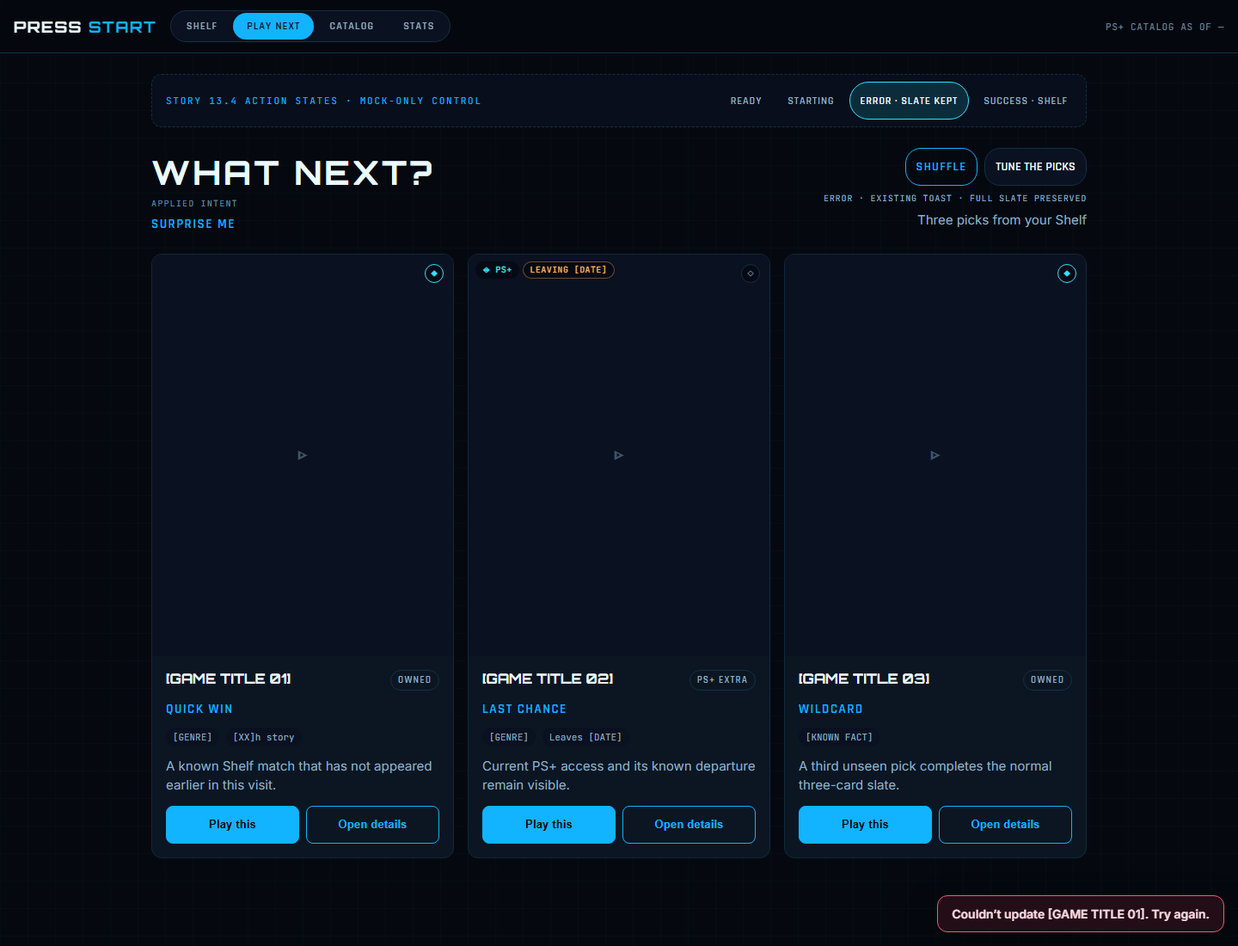
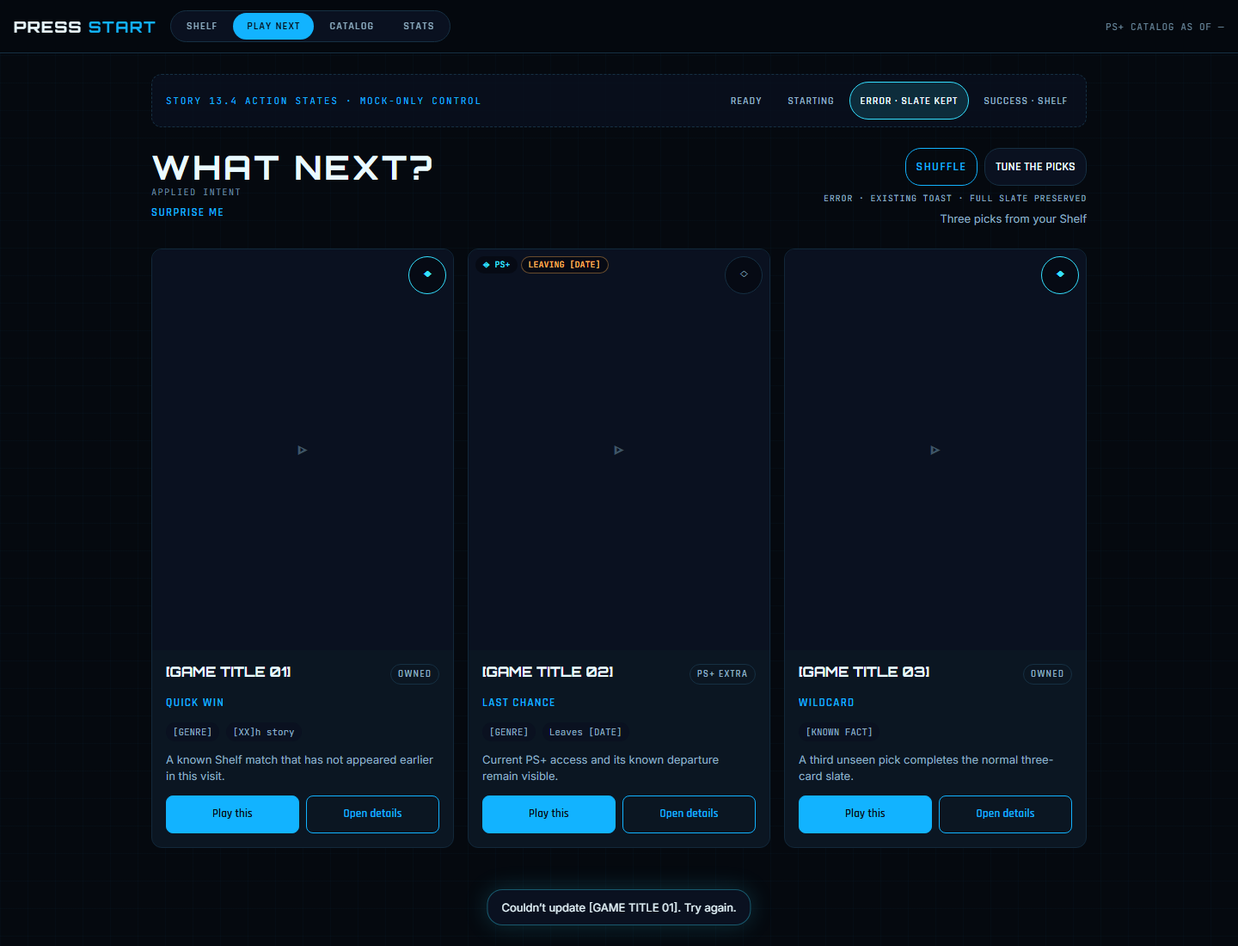
docs(design): approve story 13.4 action mock

diff --git a/_bmad-output/design-demos/epic-13-play-next/07-story-13-4-action-hardening.html b/_bmad-output/design-demos/epic-13-play-next/07-story-13-4-action-hardening.html
@@ -12,11 +12,12 @@ ASSUMPTIONS / ITERATION SOURCE
 - Failure uses the existing global error toast and preserves the complete Play Next slate.
 - Success uses the existing Shelf card/state language; selected Playing card receives route-arrival focus.
 - State switcher and captions are mock-only review chrome, never production UI.
-Alignment pass 2026-08-03: values re-copied from the shipped app + binding 05 mock —
-web/tokens.css (tokens, glow-ring), web/index.css (focus floor), web/shell/header.css,
-web/shelf/card.css via 05 (22px owned badge, rounded cover, flag offsets),
-web/play-next/play-next.css (page header, card content, tune modal). Font paths fixed:
-static @fontsource Orbitron/Rajdhani (the variable packages are not installed).
+Alignment pass 2026-08-03 (2): re-matched to the SHIPPED app, not the earlier mock series —
+web/index.css (13px body, button font-ui, focus floor), web/tokens.css,
+web/play-next/play-next.css + SuggestionCard.tsx (44px owned toggle at space-2, flag offsets,
+reason/mode inherit body size), web/components/toast.css (bottom-center cyan toast, z-toast),
+web/shelf/card.css + state-pill.css (success view: vertical card, card--playing magenta bloom,
+compact PLAYING pill, 22px shelf owned chip). Shelf filter row / header search elided as mock chrome.
 -->
 <style>
 @font-face{font-family:Orbitron;src:url('../../../node_modules/@fontsource/orbitron/files/orbitron-latin-700-normal.woff2')}
@@ -28,18 +29,20 @@ static @fontsource Orbitron/Rajdhani (the variable packages are not installed).
 	--color-border-hairline:#163043;--color-border-soft:#12283a;
 	--color-text-primary:#eafaff;--color-text-secondary:#8fb0c4;--color-text-muted:#6b8ba0;
 	--color-accent-electric:#12b3ff;--color-accent-glow:#35e0ff;
+	--color-heat-magenta:#ff2e88;--color-heat-magenta-ink:#ff8bc2;
 	--color-state-dormant:#3d5566;--color-warn-amber:#ffb254;
-	--space-1:4px;--space-2:8px;--space-3:12px;--space-4:16px;--space-5:24px;
+	--space-1:4px;--space-2:8px;--space-3:12px;--space-4:16px;--space-5:24px;--space-6:32px;
 	--radius-sm:8px;--radius-md:12px;--radius-lg:18px;--radius-pill:999px;
 	--font-display:"Orbitron",system-ui,sans-serif;--font-ui:"Rajdhani",system-ui,sans-serif;
 	--font-body:"Inter",system-ui,sans-serif;--font-mono:"JetBrains",ui-monospace,monospace;
-	--glow-ring:0 0 28px rgba(53,224,255,.18);
-	--hit-target:44px;--z-header:10;--z-overlay:40;
+	--glow-ring:0 0 28px rgba(53,224,255,.18);--glow-playing:0 0 26px rgba(255,46,136,.3);
+	--hit-target:44px;--z-header:10;--z-overlay:40;--z-toast:50;
 }
 :focus-visible{outline:2px solid var(--color-accent-electric);outline-offset:2px}
 *{box-sizing:border-box}
-body{margin:0;min-height:100vh;background:var(--color-void);color:var(--color-text-primary);font:15px/1.5 var(--font-body);background-image:linear-gradient(rgba(18,179,255,.025) 1px,transparent 1px),linear-gradient(90deg,rgba(18,179,255,.025) 1px,transparent 1px);background-size:32px 32px}
-button{cursor:pointer}
+body{margin:0;min-height:100vh;background:var(--color-void);color:var(--color-text-primary);font:400 13px/1.5 var(--font-body);background-image:linear-gradient(rgba(18,179,255,.025) 1px,transparent 1px),linear-gradient(90deg,rgba(18,179,255,.025) 1px,transparent 1px);background-size:32px 32px}
+h1,h2{margin:0;font-family:var(--font-display);font-weight:700;line-height:1.15}
+button{font-family:var(--font-ui);color:inherit;cursor:pointer}
 .app-header{position:sticky;top:0;z-index:var(--z-header);display:flex;flex-wrap:wrap;align-items:center;gap:var(--space-4);padding:var(--space-3) var(--space-4);background:rgba(5,9,15,.82);backdrop-filter:blur(8px);border-bottom:1px solid var(--color-border-hairline)}
 .wordmark{font:900 18px var(--font-display);letter-spacing:.08em}.wordmark b{color:var(--color-accent-electric)}
 .destination-toggle{display:flex;flex:0 0 auto;gap:2px;padding:2px;background:var(--color-surface-raised);border:1px solid var(--color-border-hairline);border-radius:var(--radius-pill)}
@@ -53,44 +56,57 @@ main{max-width:1120px;margin:auto;padding:var(--space-5) var(--space-4) 56px}
 .mock-state{min-height:var(--hit-target);padding:var(--space-2) var(--space-3);border:1px solid transparent;border-radius:var(--radius-pill);background:transparent;color:var(--color-text-secondary);font:700 12px var(--font-ui);letter-spacing:.08em}
 .mock-state[aria-pressed="true"]{border-color:var(--color-accent-glow);background:rgba(53,224,255,.14);color:var(--color-text-primary)}
 .play-next__header{display:flex;align-items:flex-start;justify-content:space-between;gap:var(--space-4);margin-bottom:var(--space-5)}
-.play-next__header h1{margin:0;font-family:var(--font-display);font-size:clamp(1.6rem,4vw,2.4rem);letter-spacing:.08em}
-.play-next__applied{display:block;color:var(--color-text-muted);font:10px var(--font-mono);letter-spacing:.12em}
-.play-next__mode{display:inline-flex;margin-top:var(--space-2);color:var(--color-accent-electric);font:700 15px var(--font-ui);letter-spacing:.1em}
+.play-next__header h1{font-size:clamp(1.6rem,4vw,2.4rem);letter-spacing:.08em}
+.play-next__applied{display:block;color:var(--color-text-muted);font:.65rem var(--font-mono);letter-spacing:.12em}
+.play-next__mode{display:inline-flex;margin-top:var(--space-2);color:var(--color-accent-electric);font-family:var(--font-ui);font-weight:700;letter-spacing:.1em}
 .play-next__controls{display:flex;max-width:520px;flex-direction:column;align-items:flex-end;gap:var(--space-2)}
 .play-next__controls p{margin:0;color:var(--color-text-secondary)}
 .command-row{display:flex;justify-content:flex-end;gap:var(--space-2)}
 .tune-trigger{display:inline-flex;align-items:center;gap:var(--space-2);min-height:var(--hit-target);padding:var(--space-2) var(--space-3);border:1px solid var(--color-border-hairline);border-radius:var(--radius-lg);background:var(--color-surface-raised);color:var(--color-text-primary);font:600 .9rem var(--font-ui)}
 .play-next__grid{display:grid;grid-template-columns:repeat(3,minmax(0,1fr));gap:var(--space-4)}
-.card{display:flex;flex-direction:column;min-width:0;background:var(--color-surface);border:1px solid var(--color-border-soft);border-radius:var(--radius-md)}
-.card[hidden]{display:none}
-.card__cover{position:relative;aspect-ratio:3/4;background:var(--color-surface-raised);border-radius:calc(var(--radius-md) - 1px) calc(var(--radius-md) - 1px) 0 0;overflow:hidden}
+.card{display:flex;flex-direction:column;min-width:0;background:var(--color-surface);border:1px solid var(--color-border-soft);border-radius:var(--radius-md);overflow:hidden}
+.card__cover{position:relative;aspect-ratio:3/4;background:var(--color-surface-raised)}
 .card__cover-button{display:block;width:100%;height:100%;padding:0;border:0;background:none}
 .card__cover-fallback{display:grid;place-items:center;width:100%;height:100%;color:var(--color-state-dormant);font:700 2rem var(--font-display)}
-.card__owned-toggle{position:absolute;top:calc((var(--hit-target) - 22px)/2);right:calc((var(--hit-target) - 22px)/2);z-index:1;display:grid;place-items:center;width:22px;height:22px;padding:0;line-height:1;border:1px solid var(--color-border-hairline);border-radius:var(--radius-pill);background:rgba(5,9,15,.72);color:var(--color-text-muted);font-size:11px;backdrop-filter:blur(2px)}
+.card__owned-toggle{position:absolute;top:var(--space-2);right:var(--space-2);z-index:1;display:grid;place-items:center;width:var(--hit-target);height:var(--hit-target);padding:0;border:1px solid var(--color-border-hairline);border-radius:var(--radius-pill);background:rgba(5,9,15,.72);color:var(--color-text-muted)}
 .card__owned-toggle[aria-pressed="true"]{border-color:var(--color-accent-glow);color:var(--color-accent-glow)}
-.card__flags{position:absolute;top:var(--space-2);left:var(--space-2);right:calc((var(--hit-target) - 22px)/2 + 22px + var(--space-1));display:flex;flex-wrap:wrap;gap:var(--space-1);pointer-events:none}
-.card__flag{display:inline-flex;align-items:center;padding:2px var(--space-2);border-radius:var(--radius-pill);background:rgba(5,9,15,.72);color:var(--color-text-primary);font:10px/1.4 var(--font-mono);backdrop-filter:blur(2px)}
-.card__flag--ps-extra{color:var(--color-accent-glow);font-weight:600;letter-spacing:.04em}.card__flag--leaving{flex-basis:100%;max-width:fit-content;border:1px solid rgba(255,178,84,.4);color:var(--color-warn-amber);font-weight:600;letter-spacing:.04em}
+.card__flags{position:absolute;top:var(--space-2);left:var(--space-2);right:calc(var(--hit-target) + var(--space-3));display:flex;flex-wrap:wrap;gap:var(--space-1);pointer-events:none}
+.card__flag{display:inline-flex;align-items:center;padding:2px var(--space-2);border-radius:var(--radius-pill);background:rgba(5,9,15,.72);color:var(--color-text-primary);font:.625rem/1.4 var(--font-mono)}
+.card__flag--ps-extra{color:var(--color-accent-glow);font-weight:600}.card__flag--leaving{flex-basis:100%;max-width:fit-content;border:1px solid rgba(255,178,84,.4);color:var(--color-warn-amber);font-weight:600}
 .card__content{display:flex;flex:1;flex-direction:column;gap:var(--space-3);padding:var(--space-4)}
 .card__title-row{display:flex;align-items:flex-start;justify-content:space-between;gap:var(--space-3)}
-.card__title-row h2{min-width:0;margin:0;overflow:hidden;font:600 1rem var(--font-display);text-overflow:ellipsis;white-space:nowrap}
+.card__title-row h2{min-width:0;overflow:hidden;font-size:1rem;text-overflow:ellipsis;white-space:nowrap}
 .card__access{flex:none;padding:var(--space-1) var(--space-2);border:1px solid var(--color-border-hairline);border-radius:var(--radius-pill);color:var(--color-text-secondary);font:700 .7rem var(--font-ui);letter-spacing:.1em}
-.card__reason{margin:0;color:var(--color-accent-electric);font:700 15px var(--font-ui);letter-spacing:.1em}
+.card__reason{display:inline-flex;margin:0;color:var(--color-accent-electric);font-family:var(--font-ui);font-weight:700;letter-spacing:.1em}
 .card__facts{display:flex;flex-wrap:wrap;gap:var(--space-2);margin:0;padding:0;list-style:none}.card__facts li{padding:var(--space-1) var(--space-2);border-radius:var(--radius-pill);background:var(--color-surface-raised);color:var(--color-text-secondary);font:.68rem var(--font-mono)}
 .card__explanation{margin:0;color:var(--color-text-secondary)}
 .card__actions{display:grid;grid-template-columns:1fr 1fr;gap:var(--space-2);margin-top:auto}.card__actions button{min-height:var(--hit-target);padding:var(--space-2);border:1px solid var(--color-accent-electric);border-radius:var(--radius-sm);background:transparent;color:var(--color-accent-electric);font-weight:700}.card__actions button:first-child{background:var(--color-accent-electric);color:var(--color-void)}
-.card__actions button:disabled{cursor:wait;opacity:.62}.card[aria-busy="true"]{border-color:var(--color-accent-electric);box-shadow:var(--glow-ring)}
-.toast{position:fixed;right:var(--space-4);bottom:var(--space-4);z-index:30;max-width:min(420px,calc(100vw - 24px));padding:var(--space-3) var(--space-4);border:1px solid #ff5577;border-radius:var(--radius-md);background:#230d17;color:#ffdbe4;font:600 14px var(--font-body);box-shadow:0 12px 36px rgba(0,0,0,.4)}.toast[hidden]{display:none}
-.shelf-success[hidden]{display:none}.shelf-success__head{display:flex;align-items:end;justify-content:space-between;gap:var(--space-4);margin-bottom:var(--space-5)}.shelf-success h1{margin:0;font:700 clamp(1.6rem,4vw,2.4rem) var(--font-display);letter-spacing:.08em}.shelf-success__filters{display:flex;gap:var(--space-2)}.shelf-success__filters button{min-height:var(--hit-target);padding:var(--space-2) var(--space-3);border:1px solid var(--color-border-hairline);border-radius:var(--radius-pill);background:var(--color-surface-raised);color:var(--color-text-secondary);font:700 13px var(--font-ui)}.shelf-card{display:grid;grid-template-columns:96px minmax(0,1fr);max-width:560px;min-height:144px;border:1px solid var(--color-accent-electric);border-radius:var(--radius-md);background:var(--color-surface);box-shadow:var(--glow-ring);outline:2px solid var(--color-accent-electric);outline-offset:3px}.shelf-card__cover{display:grid;place-items:center;background:var(--color-surface-raised);color:var(--color-state-dormant);font:700 2rem var(--font-display)}.shelf-card__body{padding:var(--space-4)}.shelf-card__body h2{margin:0 0 var(--space-2);font:600 1rem var(--font-display)}.status-pill{display:inline-flex;min-height:var(--hit-target);align-items:center;padding:var(--space-2) var(--space-3);border:1px solid #ff3ea5;border-radius:var(--radius-pill);background:rgba(255,62,165,.12);color:#ff71bc;font:700 13px var(--font-ui);letter-spacing:.08em}
-.shuffle-warning{max-width:520px;margin:0;padding:var(--space-2) var(--space-3);border:1px solid rgba(255,178,84,.4);border-radius:var(--radius-md);background:rgba(255,178,84,.06);color:var(--color-warn-amber);font:600 14px var(--font-ui);text-align:right}
+.card__actions button:disabled{cursor:wait;opacity:.55}.card[aria-busy="true"]{border-color:var(--color-accent-electric);box-shadow:var(--glow-ring)}
+.toast{position:fixed;left:50%;bottom:calc(var(--space-5) + env(safe-area-inset-bottom,0px));transform:translateX(-50%);z-index:var(--z-toast);display:flex;align-items:center;gap:var(--space-3);max-width:calc(100vw - var(--space-6));padding:var(--space-3) var(--space-4);background:var(--color-surface-raised);border:1px solid rgba(53,224,255,.35);border-radius:var(--radius-lg);box-shadow:var(--glow-ring);color:var(--color-text-primary);font:400 13px var(--font-body)}.toast[hidden]{display:none}
+.shelf-success[hidden]{display:none}
+.shelf-grid{display:grid;grid-template-columns:repeat(auto-fill,minmax(150px,1fr));gap:var(--space-4);margin-top:var(--space-3)}
+.shelf-card{display:flex;flex-direction:column;background:var(--color-surface);border:1px solid var(--color-border-soft);border-radius:var(--radius-md)}
+.shelf-card--playing{border-color:var(--color-heat-magenta);box-shadow:var(--glow-playing)}
+.shelf-card--playing:focus{outline:2px solid var(--color-accent-electric);outline-offset:2px}
+.shelf-card__cover{position:relative;display:grid;place-items:center;aspect-ratio:3/4;background:var(--color-surface-raised);border-radius:calc(var(--radius-md) - 1px) calc(var(--radius-md) - 1px) 0 0;overflow:hidden;color:var(--color-state-dormant);font:700 2rem var(--font-display)}
+.shelf-card__owned{position:absolute;top:calc((var(--hit-target) - 22px)/2);right:calc((var(--hit-target) - 22px)/2);display:grid;place-items:center;width:22px;height:22px;padding:0;line-height:1;border:1px solid var(--color-border-hairline);border-radius:var(--radius-pill);background:rgba(5,9,15,.72);color:var(--color-text-muted);font-size:11px;backdrop-filter:blur(2px)}
+.shelf-card__owned[aria-pressed="true"]{border-color:var(--color-accent-glow);color:var(--color-accent-glow)}
+.shelf-card__info{display:flex;flex-direction:column;gap:var(--space-1);min-height:132px;padding:var(--space-2) var(--space-3) var(--space-3)}
+.shelf-card__title{margin:0;font:600 12.5px var(--font-display);overflow:hidden;text-overflow:ellipsis;white-space:nowrap}
+.state-pill{display:inline-flex;align-items:center;align-self:flex-start;padding:2px var(--space-2);border-radius:var(--radius-pill);font:600 10px var(--font-display);letter-spacing:.04em;text-transform:uppercase;white-space:nowrap}
+.state-pill--playing{background:rgba(255,46,136,.16);color:var(--color-heat-magenta-ink)}
+.state-pill--not-started{background:rgba(61,85,102,.28);color:var(--color-text-secondary)}
+.shelf-card__chip{align-self:flex-start;padding:1px var(--space-2);border:1px solid var(--color-border-hairline);border-radius:var(--radius-pill);color:var(--color-text-muted);font:9px var(--font-mono);letter-spacing:.06em}
+.shuffle-warning{max-width:520px;margin:0;padding:var(--space-2) var(--space-3);border:1px solid rgba(255,178,84,.4);border-radius:var(--radius-md);background:rgba(255,178,84,.06);color:var(--color-warn-amber);font:600 .875rem var(--font-ui);text-align:right}
 .shuffle-warning[hidden]{display:none}
 .shuffle-button{display:inline-flex;align-items:center;justify-content:center;min-height:var(--hit-target);padding:var(--space-2) var(--space-3);border:1px solid var(--color-accent-electric);border-radius:var(--radius-lg);background:transparent;color:var(--color-accent-electric);font:700 .9rem var(--font-ui);letter-spacing:.08em}
 .shuffle-button:hover,.shuffle-button:focus-visible{background:rgba(18,179,255,.12)}
 .state-caption{margin:0;color:var(--color-text-muted);font:10px var(--font-mono);letter-spacing:.08em;text-align:right}
+.shelf-success .state-caption{margin-bottom:var(--space-2);text-align:left}
 .tune__backdrop{position:fixed;inset:0;z-index:var(--z-overlay);display:flex;align-items:center;justify-content:center;padding:var(--space-5);background:rgba(5,9,15,.7)}.tune__backdrop[hidden]{display:none}
 .tune{width:min(680px,100%);max-height:80vh;overflow-y:auto;padding:var(--space-4);border:1px solid var(--color-border-hairline);border-radius:var(--radius-lg);background:var(--color-surface-raised);box-shadow:var(--glow-ring)}
-.tune__head{display:flex;align-items:flex-start;justify-content:space-between;gap:var(--space-4)}.tune__title{margin:0 0 var(--space-3);font:600 .9rem var(--font-display);letter-spacing:.08em;text-transform:uppercase}.tune__close{display:grid;place-items:center;width:var(--hit-target);height:var(--hit-target);padding:0;border:1px solid var(--color-border-hairline);border-radius:var(--radius-pill);background:transparent;color:var(--color-text-primary);font:20px/1 var(--font-ui)}
-.tune__draft{margin:0 0 var(--space-4);padding:var(--space-2) var(--space-3);border-left:2px solid var(--color-warn-amber);background:rgba(255,178,84,.06);color:var(--color-text-secondary);font-size:13px}.tune__draft strong{color:var(--color-warn-amber)}
+.tune__head{display:flex;align-items:flex-start;justify-content:space-between;gap:var(--space-4)}.tune__title{margin:0 0 var(--space-3);font:600 .9rem var(--font-display);letter-spacing:.08em;text-transform:uppercase}.tune__close{display:grid;place-items:center;width:var(--hit-target);height:var(--hit-target);padding:0;border:1px solid var(--color-border-hairline);border-radius:var(--radius-pill);background:transparent;color:var(--color-text-primary);font:1.25rem var(--font-ui)}
+.tune__draft{margin:0 0 var(--space-4);padding:var(--space-2) var(--space-3);border-left:2px solid var(--color-warn-amber);background:rgba(255,178,84,.06);color:var(--color-text-secondary);font-size:.8125rem}.tune__draft strong{color:var(--color-warn-amber)}
 .tune__groups{display:grid;grid-template-columns:1fr 1fr;gap:0 var(--space-4)}.tune__group{display:flex;flex-wrap:wrap;gap:var(--space-2);min-inline-size:0;margin:0 0 var(--space-4);padding:0;border:0}.tune__group legend{margin-bottom:var(--space-1);padding:0;color:var(--color-text-secondary);font:.8rem var(--font-ui)}
 .tune__option{min-height:var(--hit-target);padding:var(--space-2) var(--space-3);border:1px solid var(--color-border-hairline);border-radius:var(--radius-pill);background:none;color:var(--color-text-primary);font:.9rem var(--font-ui)}.tune__option[aria-pressed="true"]{border-color:var(--color-accent-glow);background:rgba(53,224,255,.18)}
 .tune__wishlist{display:flex;align-items:center;gap:var(--space-2);min-height:var(--hit-target);margin-bottom:var(--space-3);font:.9rem var(--font-ui)}.tune__wishlist input{width:20px;height:20px;accent-color:var(--color-accent-electric)}.tune__wishlist small{color:var(--color-text-secondary)}
@@ -99,8 +115,8 @@ main{max-width:1120px;margin:auto;padding:var(--space-5) var(--space-4) 56px}
 	.app-header{gap:var(--space-2);padding:var(--space-3);background:var(--color-void);backdrop-filter:none}.destination-toggle{order:3;flex:1 0 100%}.destination-toggle__tab{flex:1;padding-inline:var(--space-1)}.app-header__readout{font-size:10px}
 	main{padding:var(--space-4) var(--space-3) 48px}.mock-bar{align-items:flex-start;flex-direction:column}.mock-bar__label{margin-top:var(--space-2)}.mock-bar__states{width:100%}.mock-state{flex:1;padding-inline:var(--space-2);font-size:10px}
 	.play-next__header{flex-direction:column}.play-next__controls{width:100%;max-width:none;align-items:flex-start}.command-row{width:100%}.command-row button{flex:1}.shuffle-warning{width:100%;max-width:none;text-align:left}.state-caption{text-align:left}.play-next__grid{grid-template-columns:repeat(2,minmax(0,1fr));gap:var(--space-2)}
-	.card__content{padding:var(--space-2) var(--space-3) var(--space-3)}.card__title-row{flex-direction:column;gap:var(--space-1)}.card__title-row h2{font-size:12.5px}.card__actions{grid-template-columns:1fr}
-	.toast{right:var(--space-3);bottom:var(--space-3)}.shelf-success__head{align-items:flex-start;flex-direction:column}.shelf-card{grid-template-columns:78px minmax(0,1fr);width:100%}
+	.card__content{padding:var(--space-2) var(--space-3) var(--space-3)}.card__title-row{flex-direction:column;gap:var(--space-1)}.card__title-row h2{font-size:.78rem}.card__actions{grid-template-columns:1fr}
+	.shelf-grid{grid-template-columns:repeat(2,minmax(0,1fr));gap:var(--space-3)}.shelf-card__info{min-height:112px}
 	.tune__backdrop{align-items:flex-end;padding:0}.tune{width:100%;max-height:80vh;padding-bottom:calc(var(--space-4) + env(safe-area-inset-bottom,0px));border:0;border-top:1px solid var(--color-border-hairline);border-radius:var(--radius-lg) var(--radius-lg) 0 0;box-shadow:none}.tune__groups{grid-template-columns:1fr}
 }
 @media(prefers-reduced-motion:reduce){*{scroll-behavior:auto!important;transition-duration:.001ms!important}}
@@ -140,12 +156,19 @@ main{max-width:1120px;margin:auto;padding:var(--space-5) var(--space-4) 56px}
 			<article class="card" data-card="3"><div class="card__cover"><button class="card__cover-button" type="button" aria-label="Open details — Game title 03"><span class="card__cover-fallback" aria-hidden="true">▹</span></button><button class="card__owned-toggle" type="button" aria-pressed="true" aria-label="Owned — Game title 03"><span aria-hidden="true">◆</span></button><div class="card__flags"></div></div><div class="card__content"><div class="card__title-row"><h2>[GAME TITLE 03]</h2><span class="card__access">OWNED</span></div><p class="card__reason">WILDCARD</p><ul class="card__facts"><li>[KNOWN FACT]</li></ul><p class="card__explanation">A third unseen pick completes the normal three-card slate.</p><div class="card__actions"><button type="button">Play this</button><button type="button">Open details</button></div></div></article>
 		</div>
 	</section>
-	<section class="shelf-success" data-shelf-view hidden aria-labelledby="shelf-heading"><div class="shelf-success__head"><div><span class="play-next__applied">DESTINATION</span><h1 id="shelf-heading">SHELF</h1></div><div class="shelf-success__filters"><button type="button">FILTERS</button><button type="button">SEARCH</button></div></div><article class="shelf-card" tabindex="-1" aria-label="[GAME TITLE 01] — Playing"><div class="shelf-card__cover">▹</div><div class="shelf-card__body"><span class="play-next__applied">PLAYING TIER · ARRIVAL FOCUS</span><h2>[GAME TITLE 01]</h2><button class="status-pill" type="button">PLAYING</button></div></article></section>
+	<section class="shelf-success" data-shelf-view hidden aria-label="Shelf after Play this">
+		<p class="state-caption">DESTINATION · SHELF — FILTER ROW + HEADER SEARCH ELIDED (MOCK CHROME)</p>
+		<div class="shelf-grid">
+			<article class="shelf-card shelf-card--playing" tabindex="-1" aria-label="[GAME TITLE 01] — Playing"><div class="shelf-card__cover"><span aria-hidden="true">▹</span><button class="shelf-card__owned" type="button" aria-pressed="true" aria-label="Owned — Game title 01"><span aria-hidden="true">◆</span></button></div><div class="shelf-card__info"><p class="shelf-card__title">[GAME TITLE 01]</p><span class="state-pill state-pill--playing">Playing</span><p class="shelf-card__chip">OWNED</p></div></article>
+			<article class="shelf-card" aria-label="[GAME TITLE 04] — Not started"><div class="shelf-card__cover"><span aria-hidden="true">▹</span><button class="shelf-card__owned" type="button" aria-pressed="true" aria-label="Owned — Game title 04"><span aria-hidden="true">◆</span></button></div><div class="shelf-card__info"><p class="shelf-card__title">[GAME TITLE 04]</p><span class="state-pill state-pill--not-started">Not started</span><p class="shelf-card__chip">OWNED</p></div></article>
+			<article class="shelf-card" aria-label="[GAME TITLE 05] — Not started"><div class="shelf-card__cover"><span aria-hidden="true">▹</span><button class="shelf-card__owned" type="button" aria-pressed="false" aria-label="Owned — Game title 05"><span aria-hidden="true">◇</span></button></div><div class="shelf-card__info"><p class="shelf-card__title">[GAME TITLE 05]</p><span class="state-pill state-pill--not-started">Not started</span></div></article>
+		</div>
+	</section>
 </main>
 <div class="toast" role="alert" data-error-toast hidden>Couldn’t update [GAME TITLE 01]. Try again.</div>
 <div class="tune__backdrop" data-backdrop hidden><section class="tune" role="dialog" aria-modal="true" aria-labelledby="tune-title" tabindex="-1"><div class="tune__head"><h2 class="tune__title" id="tune-title">Tune the picks</h2><button class="tune__close" type="button" aria-label="Close Tune the picks">×</button></div><p class="tune__draft">Draft only — current picks stay put until <strong>SHOW ME 3</strong>.</p><div class="tune__groups"><fieldset class="tune__group"><legend>Genre — one or none</legend><button class="tune__option" type="button" aria-pressed="false">Familiar</button><button class="tune__option" type="button" aria-pressed="false">Different</button></fieldset><fieldset class="tune__group"><legend>Time — one or none</legend><button class="tune__option" type="button" aria-pressed="false">Quick win</button></fieldset><fieldset class="tune__group"><legend>Backlog age — one or none</legend><button class="tune__option" type="button" aria-pressed="false">Fresh</button><button class="tune__option" type="button" aria-pressed="false">Forgotten</button></fieldset><fieldset class="tune__group"><legend>Confidence — one or none</legend><button class="tune__option" type="button" aria-pressed="false">Safe bet</button><button class="tune__option" type="button" aria-pressed="false">Wildcard</button></fieldset><fieldset class="tune__group"><legend>Priority — one or none</legend><button class="tune__option" type="button" aria-pressed="false">Follow my list</button><button class="tune__option" type="button" aria-pressed="false">Last chance</button></fieldset><fieldset class="tune__group"><legend>Progress — one or none</legend><button class="tune__option" type="button" aria-pressed="false">Finish them</button></fieldset></div><label class="tune__wishlist"><input type="checkbox"> Include wishlist <small>DISCOVER access</small></label><button class="tune__show" type="button">SHOW ME 3</button></section></div>
 <script>
-const caption=document.querySelector('.state-caption');
+const caption=document.querySelector('[data-play-next-view] .state-caption');
 const stateButtons=[...document.querySelectorAll('[data-next-state]')];
 const playView=document.querySelector('[data-play-next-view]');
 const shelfView=document.querySelector('[data-shelf-view]');
@@ -169,7 +192,7 @@ function setState(state){
 	shelfView.hidden=!success;
 	if(success){shelfTab.setAttribute('aria-current','page');playTab.removeAttribute('aria-current')}else{playTab.setAttribute('aria-current','page');shelfTab.removeAttribute('aria-current')}
 	caption.textContent=state==='ready'?'READY · ALL CARD ACTIONS AVAILABLE':state==='starting'?'STARTING · ACTIVATED CARD ACTIONS LOCKED':state==='error'?'ERROR · EXISTING TOAST · FULL SLATE PRESERVED':'SUCCESS · PLAYING CARD FOCUSED ON SHELF';
-	if(success) shelfView.querySelector('.shelf-card').focus();
+	if(success) shelfView.querySelector('.shelf-card--playing').focus();
 	location.hash=state;
 }
 stateButtons.forEach(button=>button.addEventListener('click',()=>setState(button.dataset.nextState)));

diff --git a/_bmad-output/implementation-artifacts/spec-13-4-act-on-a-recommendation-and-harden-the-flow.md b/_bmad-output/implementation-artifacts/spec-13-4-act-on-a-recommendation-and-harden-the-flow.md
@@ -2,7 +2,7 @@
 title: 'Story 13.4: Act on a recommendation and harden the flow'
 type: 'feature'
 created: '2026-08-03'
-status: 'blocked'
+status: 'ready-for-dev'
 review_loop_iteration: 0
 followup_review_recommended: false
 context:
@@ -55,7 +55,7 @@ warnings: [oversized]
 ## Tasks & Acceptance
 
 **Execution:**
-- [ ] `_bmad-output/design-demos/epic-13-play-next/07-story-13-4-action-hardening.html` -- present ready, pending, failure-preserved, success-Shelf, desktop, and 320px states; record Luca approval.
+- [x] `_bmad-output/design-demos/epic-13-play-next/07-story-13-4-action-hardening.html` -- present ready, pending, failure-preserved, success-Shelf, desktop, and 320px states; record Luca approval.
 - [ ] `web/play-next/SuggestionCard.tsx`, `web/play-next/play-next.css` -- implement approved pending/action treatment without changing card hierarchy.
 - [ ] `web/play-next/PlayNextPage.tsx`, `web/shelf/Shelf.tsx` -- pass successful selection context through navigation and focus the settled Playing Shelf card without stealing focus on ordinary Shelf visits.
 - [ ] `web/play-next/PlayNextPage.test.tsx` -- pin single-write pending behavior, success navigation/focus intent, failure restoration, and full visit preservation.
@@ -83,7 +83,7 @@ Pending is local to the activated suggestion and uses existing visual language: 
 
 Successful navigation carries only the selected game ID as ephemeral route state. Shelf consumes it once after the invalidated query settles, focuses the matching Playing card/gridcell, and clears the intent. Normal Shelf navigation must never auto-focus a card.
 
-Placement mock: `_bmad-output/design-demos/epic-13-play-next/07-story-13-4-action-hardening.html`. Approval pending.
+Placement mock: `_bmad-output/design-demos/epic-13-play-next/07-story-13-4-action-hardening.html`. Luca applied final shipped-app alignment edits and approved the resulting UI on 2026-08-03; those edits are binding.
 
 ## Verification
 
@@ -96,6 +96,6 @@ Placement mock: `_bmad-output/design-demos/epic-13-play-next/07-story-13-4-actio
 
 ## Auto Run Result
 
-Status: blocked.
+Status: resumed.
 
-Blocking condition: Story 13.4 implementation-specific UI mock requires Luca approval before production UI changes.
+UI-MOCK-GATE: approved by Luca on 2026-08-03 after Luca's final shipped-app alignment edits. Production implementation may proceed.

diff --git a/_bmad-output/design-demos/epic-13-play-next/direction-approved.md b/_bmad-output/design-demos/epic-13-play-next/direction-approved.md
@@ -137,3 +137,15 @@ app-alignment edits are binding and the resulting Story 13.3 mock is approved.
 Status: approved by Luca on 2026-08-03 for Story 13.3 UI implementation.
 `06-story-13-3-shuffle-states.html`, including Luca's final alignment edits,
 is the binding placement and interaction reference.
+
+## Story 13.4 final mock approval — verbatim
+
+> I've applied some minor changes and approved the UI
+
+Luca's final shipped-app alignment edits are binding. Approved states: ready,
+`STARTING…`, existing error toast with full slate preserved, and successful
+Shelf arrival with the Playing card focused. Approved responsive reference:
+desktop three-card Play Next layout and 320px two-up compact card layout.
+
+Status: approved by Luca on 2026-08-03 for Story 13.4 UI implementation.
+`07-story-13-4-action-hardening.html` is the binding implementation reference.
